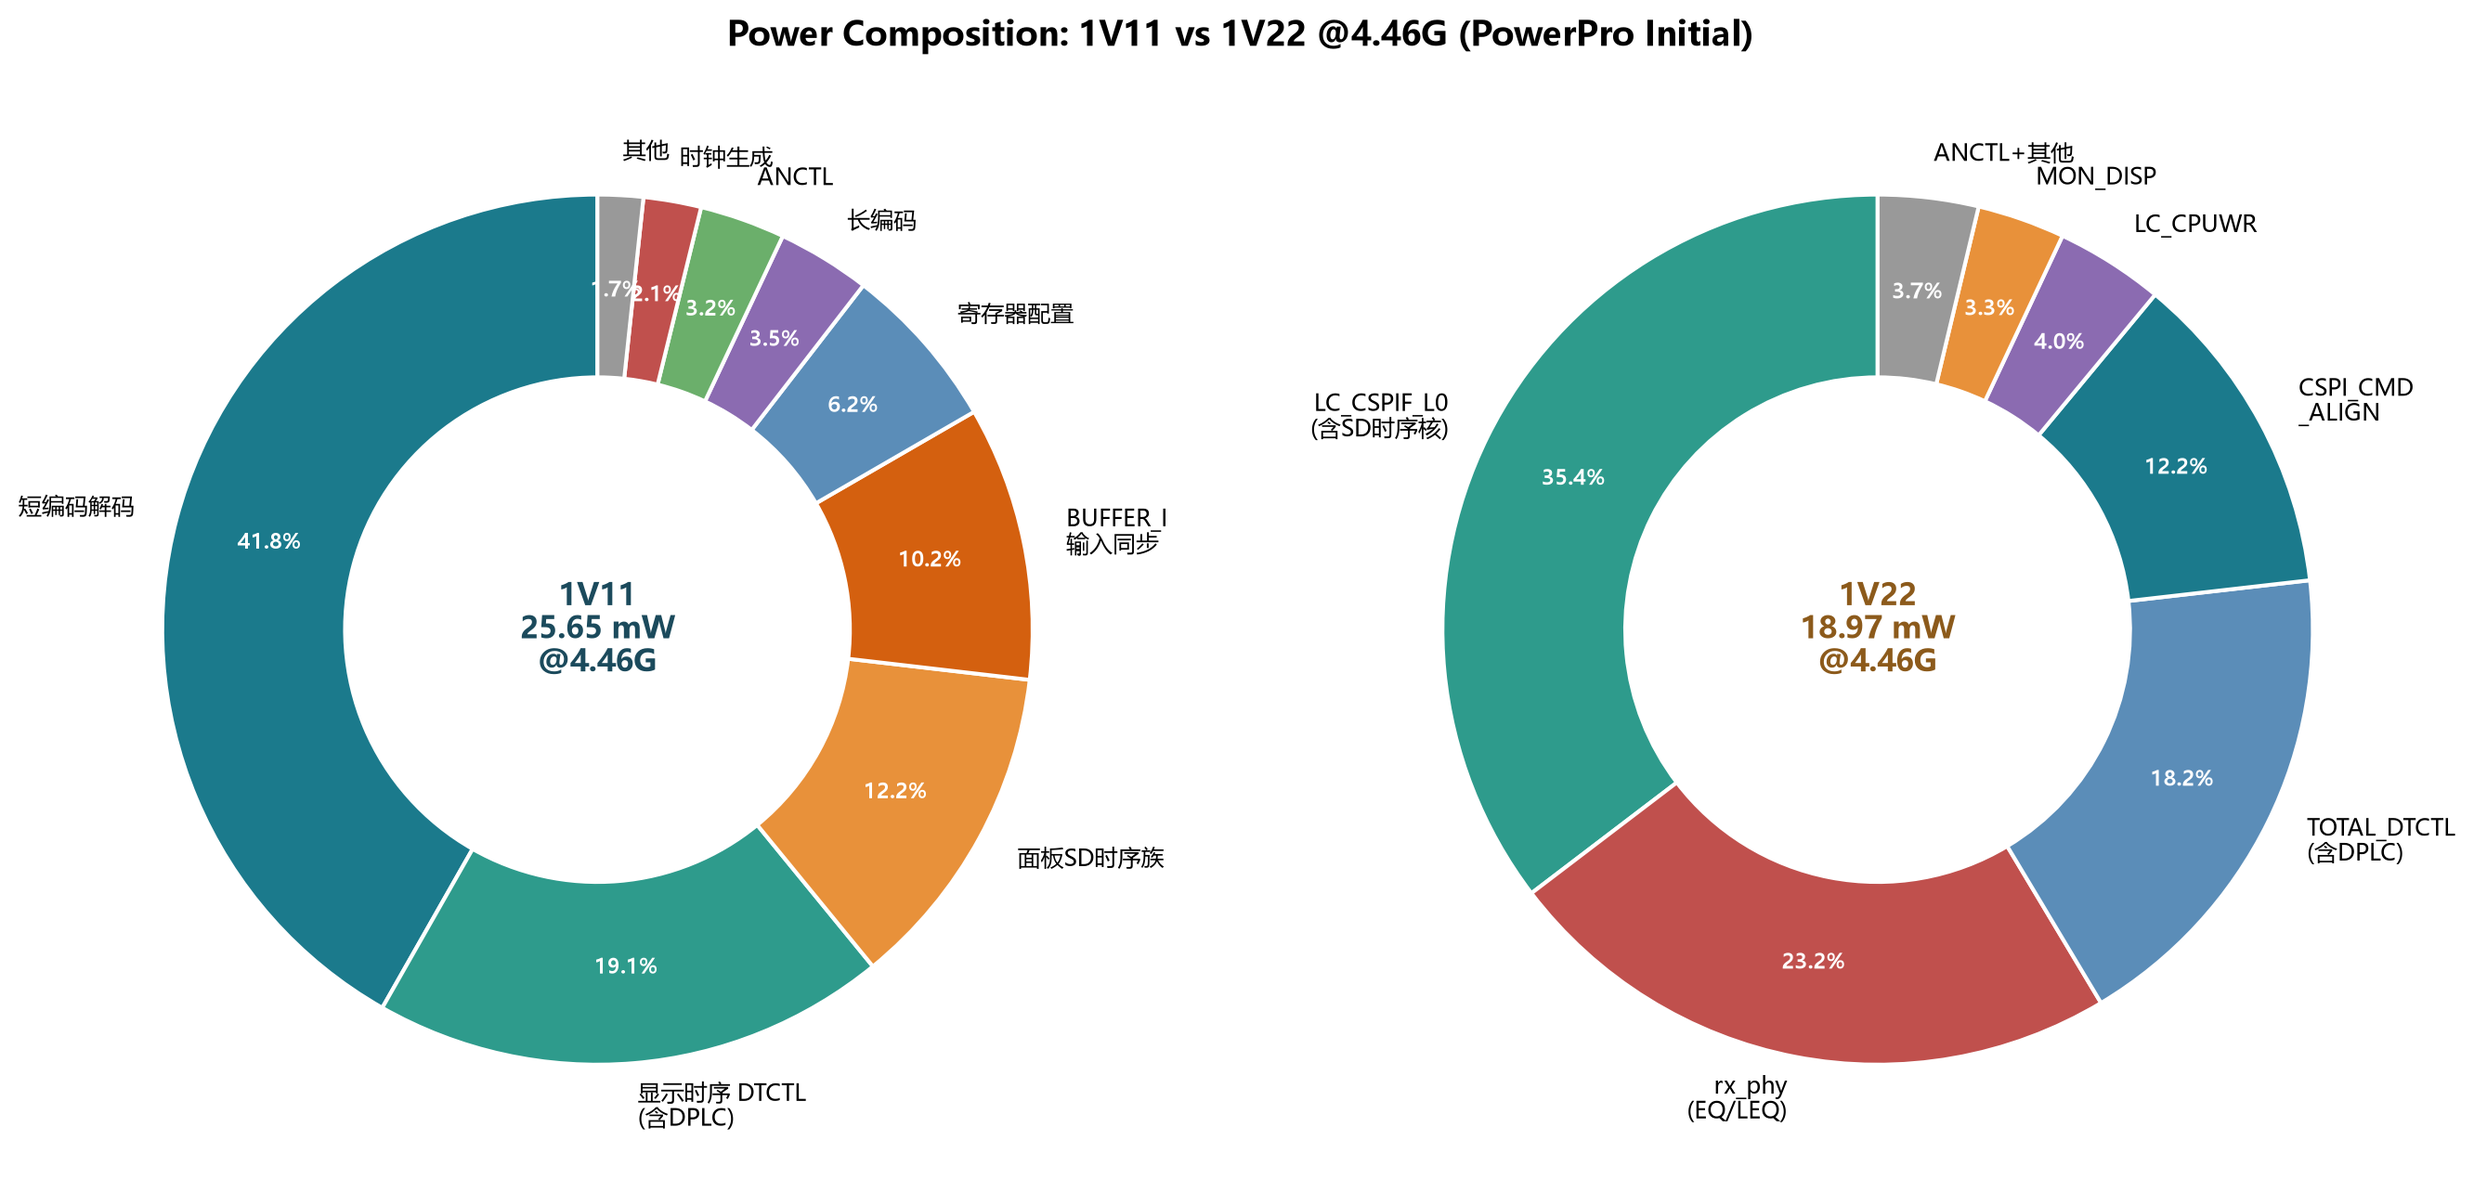
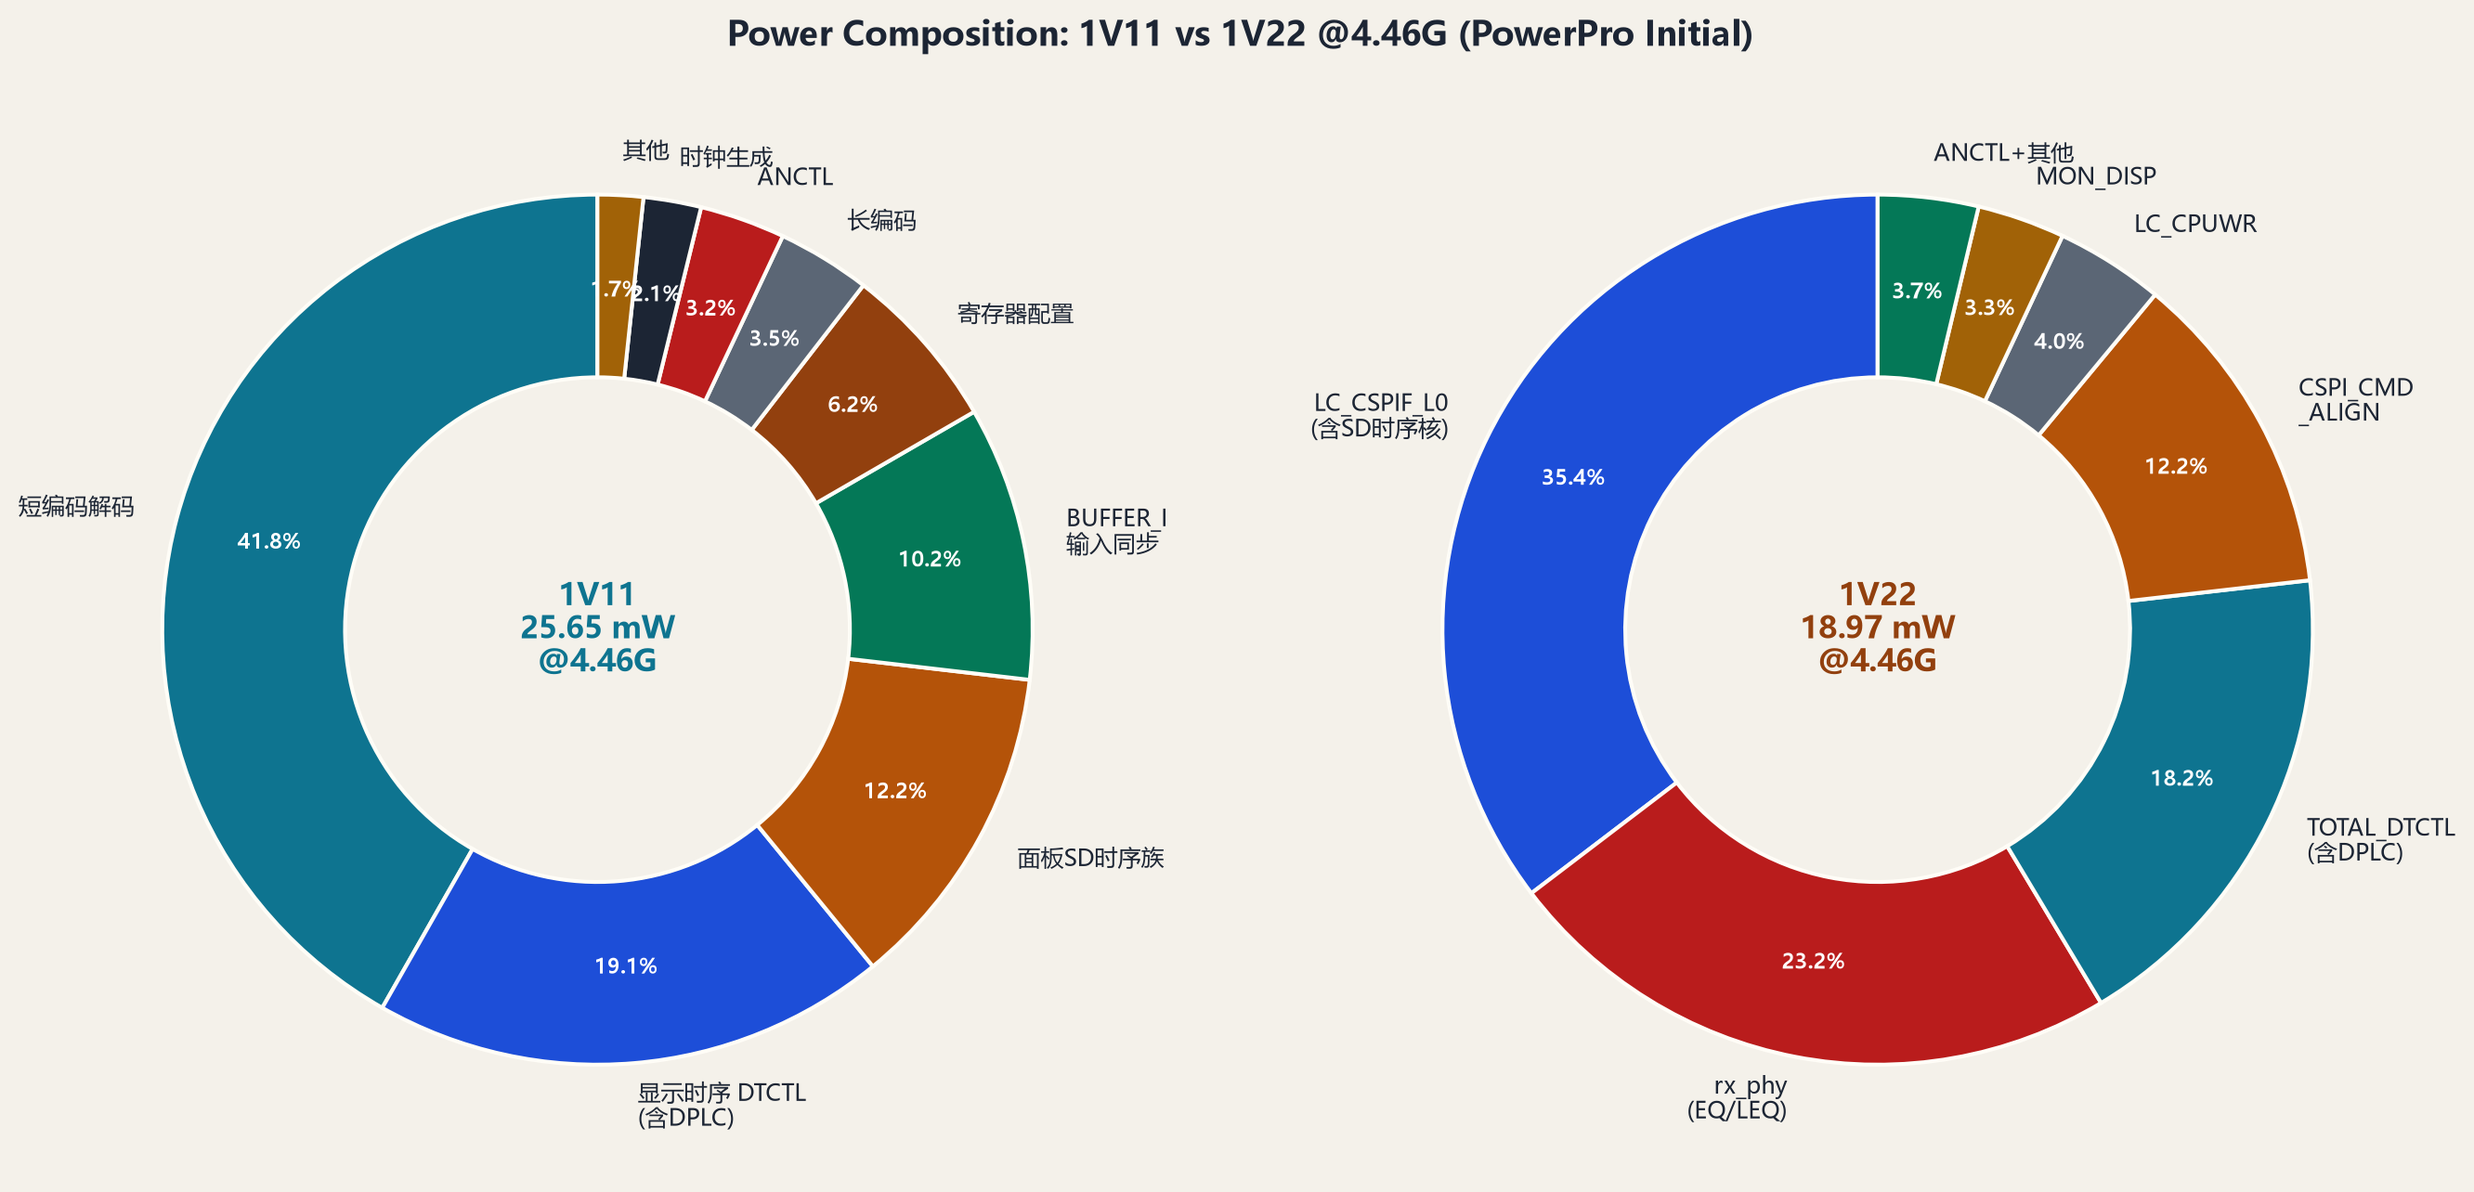
review round-2 fixes: power chart PNGs to referenced root paths (N1 blocker); arrow badge corruption cleaned (delta=▼, ratio=plain); copy button execCommand fallback with honest fail state; lead-kicker exempted for ch03/06/08; --warn deepened to 4.9:1; ch11 3-class tags semantic colors; dark-mode pa

diff --git a/hk1v11-synthesis-postpt-practice/ch10-warstories.html b/hk1v11-synthesis-postpt-practice/ch10-warstories.html
@@ -26,37 +26,37 @@
     <div class="content">
       <div class="section-title" style="margin-top: 0;">速查 · G13 一周多轮收敛（round1→6）</div>
       <div class="chapter-grid" style="margin-bottom: 12px;">
-        <a class="chapter-card card-span card-hero card-center" href="#收敛仪表盘" style="20px">
+        <a class="chapter-card card-span card-hero card-center" href="#收敛仪表盘">
           <div class="num">round1 → round6 · G13 一周约束收窄（打地鼠收敛）</div>
           <div class="title" style="font-family: var(--font-mono); font-weight: 600; color: var(--accent);">6 <span style="font-size: 20px;">轮</span></div>
           <div class="desc" style="margin-top: 10px; font-size: 14px;">round1 42 条违例<b>全消</b> → round5 K1 族 <b>96→3</b> · round6 待 POSTPT 验证</div>
         </a>
-        <a class="chapter-card card-center card-mini" href="#收敛仪表盘" style="12px">
+        <a class="chapter-card card-center card-mini" href="#收敛仪表盘">
           <div class="num">round1</div>
           <div class="title" style="font-family: var(--font-mono);">42 条全消</div>
           <div class="desc">G1(25)+G3(17) 逐条 mc · ignored 为零</div>
         </a>
-        <a class="chapter-card card-center card-mini" href="#收敛仪表盘" style="12px">
+        <a class="chapter-card card-center card-mini" href="#收敛仪表盘">
           <div class="num">round2</div>
           <div class="title" style="font-family: var(--font-mono);">POL +3</div>
           <div class="desc">G2~G8 共 30 对 · 浮出 3 条新起点（打地鼠）</div>
         </a>
-        <a class="chapter-card card-center card-mini" href="#收敛仪表盘" style="12px">
+        <a class="chapter-card card-center card-mini" href="#收敛仪表盘">
           <div class="num">round3</div>
           <div class="title" style="font-family: var(--font-mono);">矩阵闭环</div>
           <div class="desc">POL 扇入矩阵补 3 对 · 无 round4 打地鼠</div>
         </a>
-        <a class="chapter-card card-center card-mini" href="#收敛仪表盘" style="12px">
+        <a class="chapter-card card-center card-mini" href="#收敛仪表盘">
           <div class="num">round4</div>
           <div class="title" style="font-family: var(--font-mono);">100+→30 行</div>
           <div class="desc">族通配合并 + dc/pt 双分支 · DC 不再误读</div>
         </a>
-        <a class="chapter-card card-center card-mini" href="#收敛仪表盘" style="12px">
+        <a class="chapter-card card-center card-mini" href="#收敛仪表盘">
           <div class="num">round5</div>
           <div class="title" style="font-family: var(--font-mono);">96→3</div>
           <div class="desc">K1_FIND→CPUWR 族 mc（同一约束下）</div>
         </a>
-        <a class="chapter-card card-center card-mini" href="#收敛仪表盘" style="12px">
+        <a class="chapter-card card-center card-mini" href="#收敛仪表盘">
           <div class="num">round6</div>
           <div class="title" style="font-family: var(--font-mono);">⏳ 待验证</div>
           <div class="desc">G9/G11 mc + G10 max_delay 2× · 入 pending bundle</div>
@@ -65,22 +65,22 @@
 
       <div class="section-title">对比 · 约束"写了"却不生效——三真凶都在落地环节（案例 21）</div>
       <div class="chapter-grid" style="margin-bottom: 12px;">
-        <a class="chapter-card card-span card-hero card-center" href="#案例-21约束明明写了却不生效三个真凶都在落地环节不在语法0921-POSTPT" style="20px">
+        <a class="chapter-card card-span card-hero card-center" href="#案例-21约束明明写了却不生效三个真凶都在落地环节不在语法0921-POSTPT">
           <div class="num">案例 21 · UTC_FRM_CNT 路径（WCLK1_A_CHPI_DCLK_SHORT → RX_CLK）</div>
           <div class="title" style="font-family: var(--font-mono); font-weight: 600; color: var(--accent);">56 <span style="font-size: 20px;">条 SEL-004 静默丢弃</span></div>
           <div class="desc" style="margin-top: 10px; font-size: 14px;">→ 违例 <b>−0.369</b> · 三真凶全在 <b>write_sdc 对象落地</b>环节、不在语法 · 修复：<b>-to 用时钟对象</b></div>
         </a>
-        <a class="chapter-card card-center card-mini" href="#案例-21约束明明写了却不生效三个真凶都在落地环节不在语法0921-POSTPT" style="12px; border-left: 3px solid var(--bad)">
+        <a class="chapter-card card-center card-mini" href="#案例-21约束明明写了却不生效三个真凶都在落地环节不在语法0921-POSTPT">
           <div class="num"><span class="badge badge-bad">真凶一 · 主因</span></div>
           <div class="title" style="font-family: var(--font-mono);">SEL-004 ×16</div>
           <div class="desc">-to 写寄存器 → DC 数据脚 D1/D2 → APR 无此脚 → 匹配 0 对象被丢</div>
         </a>
-        <a class="chapter-card card-center card-mini" href="#案例-21约束明明写了却不生效三个真凶都在落地环节不在语法0921-POSTPT" style="12px; border-left: 3px solid var(--ok)">
+        <a class="chapter-card card-center card-mini" href="#案例-21约束明明写了却不生效三个真凶都在落地环节不在语法0921-POSTPT">
           <div class="num"><span class="badge badge-ok">真凶二 · 证伪</span></div>
           <div class="title" style="font-family: var(--font-mono);">346 vs 8 pin</div>
           <div class="desc">全 _F_ 区域 vs 全 _L_（8 个 CK）→ 集合不相交 → 非冲突</div>
         </a>
-        <a class="chapter-card card-center card-mini" href="#案例-21约束明明写了却不生效三个真凶都在落地环节不在语法0921-POSTPT" style="12px; border-left: 3px solid var(--warn)">
+        <a class="chapter-card card-center card-mini" href="#案例-21约束明明写了却不生效三个真凶都在落地环节不在语法0921-POSTPT">
           <div class="num"><span class="badge badge-warn">真凶三 · 次因</span></div>
           <div class="title" style="font-family: var(--font-mono);">−3.815 伪违例</div>
           <div class="desc">if/else 合并丢 /D* → max_delay 抓内部节点（结构性必爆）</div>
@@ -895,4 +895,4 @@ CPUWR 毯子用的是 `-through u_.../LC_CPUWR/R_*`——但 clock-gating 检查
   <script src="./js/site.js"></script>
 </body>
 </html>
-<!-- ymzhu 2026-10-21 11:44 -->
+<!-- ymzhu 2026-10-21 11:56 -->

diff --git a/hk1v11-synthesis-postpt-practice/js/site.js b/hk1v11-synthesis-postpt-practice/js/site.js
@@ -138,6 +138,9 @@
   var mdEl = document.getElementById('md');
   if (mdEl && document.getElementById('article')) {
     var art = document.getElementById('article');
+    /* 导语 kicker 豁免页：首个块引用是口径/出处注记而非章节导语（复审 t67） */
+    var NO_LEAD = { 'ch03-synthesis.html': 1, 'ch06-postpt.html': 1, 'ch08-powerpro.html': 1 };
+    if (NO_LEAD[currentPage()]) art.classList.add('no-lead');
     art.innerHTML = marked.parse(mdEl.textContent);
     art.classList.remove('loading');
 
@@ -176,14 +179,26 @@
       btn.type = 'button';
       btn.textContent = 'copy';
       btn.addEventListener('click', function () {
-        var done = function () {
-          btn.textContent = '已复制';
-          btn.classList.add('done');
+        var mark = function (txt, ok) {
+          btn.textContent = txt;
+          btn.classList.toggle('done', !!ok);
           setTimeout(function () { btn.textContent = 'copy'; btn.classList.remove('done'); }, 1600);
         };
-        if (navigator.clipboard && navigator.clipboard.writeText) {
-          navigator.clipboard.writeText(c.textContent).then(done, done);
-        } else { done(); }
+        var fallback = function () {   /* 非安全上下文 / 权限拒：execCommand 降级（复审 t70） */
+          try {
+            var ta = document.createElement('textarea');
+            ta.value = c.textContent;
+            ta.style.cssText = 'position:fixed;opacity:0';
+            document.body.appendChild(ta);
+            ta.select();
+            var ok = document.execCommand('copy');
+            document.body.removeChild(ta);
+            mark(ok ? '已复制' : '复制失败', ok);
+          } catch (e) { mark('复制失败', false); }
+        };
+        if (navigator.clipboard && navigator.clipboard.writeText && window.isSecureContext) {
+          navigator.clipboard.writeText(c.textContent).then(function () { mark('已复制', true); }, fallback);
+        } else fallback();
       });
       pre.appendChild(btn);
     });
@@ -324,6 +339,11 @@
     tocWrap.querySelectorAll('a').forEach(function (a) {
       a.addEventListener('click', function () { tocWrap.classList.remove('open'); });
     });
+    /* 点抽屉外任意处关闭（复审 t72） */
+    document.addEventListener('click', function (e) {
+      if (!tocWrap.classList.contains('open')) return;
+      if (!tocWrap.contains(e.target) && !tocBtn.contains(e.target)) tocWrap.classList.remove('open');
+    });
   }
 
   /* ---------- prev / next page nav ---------- */
@@ -352,4 +372,4 @@
   document.head.appendChild(ss);
 })();
 
-// ymzhu 2026-10-21 11:49
+// ymzhu 2026-10-21 11:56

diff --git a/hk1v11-synthesis-postpt-practice/css/style.css b/hk1v11-synthesis-postpt-practice/css/style.css
@@ -21,8 +21,8 @@
   --ok-bg: rgba(4, 120, 87, 0.08);
   --bad: #b91c1c;
   --bad-bg: rgba(185, 28, 28, 0.08);
-  --warn: #a16207;
-  --warn-bg: rgba(161, 98, 7, 0.10);
+  --warn: #8a5305;
+  --warn-bg: rgba(138, 83, 5, 0.10);
   --info: #1d4ed8;
   --info-bg: rgba(29, 78, 216, 0.08);
   --font-mono: "IBM Plex Mono", "SFMono-Regular", Consolas, "JetBrains Mono", monospace;
@@ -297,6 +297,15 @@ h2, h3 { scroll-margin-top: 76px; }
   pointer-events: none;
 }
 .lb-thumb:hover::after { opacity: 1; }
+/* 暗色主题：纸底 PNG 嵌暗页的框线过渡（复审 t71 #3，覆盖 delay_skew/功耗图） */
+@media (prefers-color-scheme: dark) {
+  .lb-thumb {
+    background: var(--surface);
+    border: 1px solid var(--line);
+    border-radius: 8px;
+    padding: 6px;
+  }
+}
 .toc-toggle { display: none; }
 @media (max-width: 768px) {
   .toc-wrapper { display: none; }
@@ -486,7 +495,8 @@ blockquote {
   border-radius: 0 10px 10px 0;
   font-size: 15px;
 }
-/* 章节导语：首个块引用加 mono kicker，与普通注记区分（排版体系审 #2） */
+/* 章节导语：首个块引用加 mono kicker，与普通注记区分（排版体系审 #2）
+   豁免页（首 bq 为口径/出处注记）由 site.js 加 .no-lead（复审 t67） */
 .article > blockquote:first-of-type::before {
   content: "导语 · OVERVIEW";
   display: block;
@@ -497,6 +507,7 @@ blockquote {
   color: var(--accent);
   margin-bottom: 6px;
 }
+.article.no-lead > blockquote:first-of-type::before { content: none; }
 
 /* ---------- 列表 ---------- */
 ul, ol { padding-left: 28px; }
@@ -661,6 +672,11 @@ hr { border: 0; border-top: 1px solid var(--line); margin: 40px 0; }
   color: var(--accent);
   background: var(--accent-soft);
 }
+/* 语义 tag 变体（复审 t71：三分类等中性标签不再一律琥珀） */
+.chapter-card .tag.tag-warn { border-color: var(--warn); color: var(--warn); background: var(--warn-bg); }
+.chapter-card .tag.tag-bad  { border-color: var(--bad);  color: var(--bad);  background: var(--bad-bg); }
+.chapter-card .tag.tag-info { border-color: var(--info); color: var(--info); background: var(--info-bg); }
+.chapter-card .tag.tag-muted { border-color: var(--line); color: var(--muted); background: var(--chip); }
 
 /* ---------- 问题卡 / 结论卡 ---------- */
 .pcard {
@@ -867,4 +883,4 @@ hr { border: 0; border-top: 1px solid var(--line); margin: 40px 0; }
 .lb-overlay .lb-next { right: 20px; top: 50%; transform: translateY(-50%); }
 @media print { .lb-overlay { display: none !important; } }
 
-/* ymzhu 2026-10-21 11:44 */
+/* ymzhu 2026-10-21 11:56 */

diff --git a/hk1v11-synthesis-postpt-practice/ch08-powerpro.html b/hk1v11-synthesis-postpt-practice/ch08-powerpro.html
@@ -247,7 +247,7 @@ WARNING: PowerPro 读取的 RTL 必须是可综合代码，无法综合会 inter
   <div class="chapter-card card-span card-hero card-center">
     <div class="num">1V11 vs 1V22（同日 · 同工具 · 同库 · 同流程 · 完全同频）</div>
     <div class="title" style="font-family: var(--font-mono); font-weight: 600; color: var(--accent);">25.65 <span style="color: var(--muted); font-size: 22px;">vs</span> 18.97 <span style="font-size: 20px;">mW</span></div>
-    <div class="desc" style="margin-top: 10px; font-size: 14px;">净差 <b>6676 µW</b><span class="badge badge-warn" style="margin-left: 10px;">×▲ ×▲ ×1.35</span>　对账 = 1.70 纯新增 + 7.30 实现差 + 2.50 迁移 − 4.80 抵消 ≈ 6.7 ✓</div>
+    <div class="desc" style="margin-top: 10px; font-size: 14px;">净差 <b>6676 µW</b><span class="badge badge-warn" style="margin-left: 10px;">×1.35</span>　对账 = 1.70 纯新增 + 7.30 实现差 + 2.50 迁移 − 4.80 抵消 ≈ 6.7 ✓</div>
   </div>
   <div class="chapter-card card-center card-mini">
     <div class="num">纯新增（1V22 无对应功能）</div>
@@ -327,4 +327,4 @@ WARNING: PowerPro 读取的 RTL 必须是可综合代码，无法综合会 inter
   <script src="./js/site.js"></script>
 </body>
 </html>
-<!-- ymzhu 2026-10-21 11:44 -->
+<!-- ymzhu 2026-10-21 11:56 -->

diff --git a/hk1v11-synthesis-postpt-practice/ch14-violation-disposition.html b/hk1v11-synthesis-postpt-practice/ch14-violation-disposition.html
@@ -46,7 +46,7 @@
 <div id="g482-overview" style="scroll-margin-top:76px;"></div>
 <div class="section-title">聚合 · 482 条 9 组分布</div>
 <div class="chapter-grid">
-  <a class="chapter-card card-span card-hero" href="#2-逐组详析旧--新--结论--建议--fileline" style="22px">
+  <a class="chapter-card card-span card-hero" href="#2-逐组详析旧--新--结论--建议--fileline">
     <div class="num">482 条 · 0922 收窄后新 DC（rep_dir_0922_1456）</div>
     <div class="title" style="font-size:18px;"><span style="font-family:var(--font-mono);font-weight:600;color:var(--accent);">482</span> = 收窄暴露 <span style="font-family:var(--font-mono);color:var(--warn);">106</span>（22%） + 从未约束 <span style="font-family:var(--font-mono);color:var(--muted);">376</span>（78%）</div>
     <div class="desc">setup 452（89+15+41+139+139+23+4+2） + hold 30 · 仅 106 条（组1/2/8，Δ=约束→删除）是"收窄报出来的"，其余 376 条从未被任何约束覆盖。点击任意组卡 → §2 逐组对照。</div>
@@ -678,4 +678,4 @@ iverilog（`HDL_define.v` 同编）→ `rtl-code-review` 对抗评审（门禁 c
   <script src="./js/site.js"></script>
 </body>
 </html>
-<!-- ymzhu 2026-10-21 11:44 -->
+<!-- ymzhu 2026-10-21 11:56 -->

diff --git a/hk1v11-synthesis-postpt-practice/ch16-dc1004-review.html b/hk1v11-synthesis-postpt-practice/ch16-dc1004-review.html
@@ -44,7 +44,7 @@
   <div class="chapter-card card-span card-hero card-center">
     <div class="num">DC rep_dir_1003 vs 0922 基线</div>
     <div class="title" style="font-family: var(--font-mono); font-weight: 600; color: var(--accent);">452 <span style="color: var(--muted); font-size: 24px;">→</span> <span style="color: var(--ok);">11</span></div>
-    <div class="desc" style="margin-top: 10px; font-size: 14px;">setup 违例路径（max.rpt）<span class="badge badge-ok" style="margin-left: 10px; font-size: 13px;">−▼ −▼ −97.6%</span></div>
+    <div class="desc" style="margin-top: 10px; font-size: 14px;">setup 违例路径（max.rpt）<span class="badge badge-ok" style="margin-left: 10px; font-size: 13px;">▼ −97.6%</span></div>
   </div>
   <div class="chapter-card card-center card-mini">
     <div class="num">worst slack</div>
@@ -230,5 +230,5 @@
   <script src="./js/site.js"></script>
 </body>
 </html>
-<!-- ymzhu 2026-10-21 11:44 -->
+<!-- ymzhu 2026-10-21 11:56 -->
 
